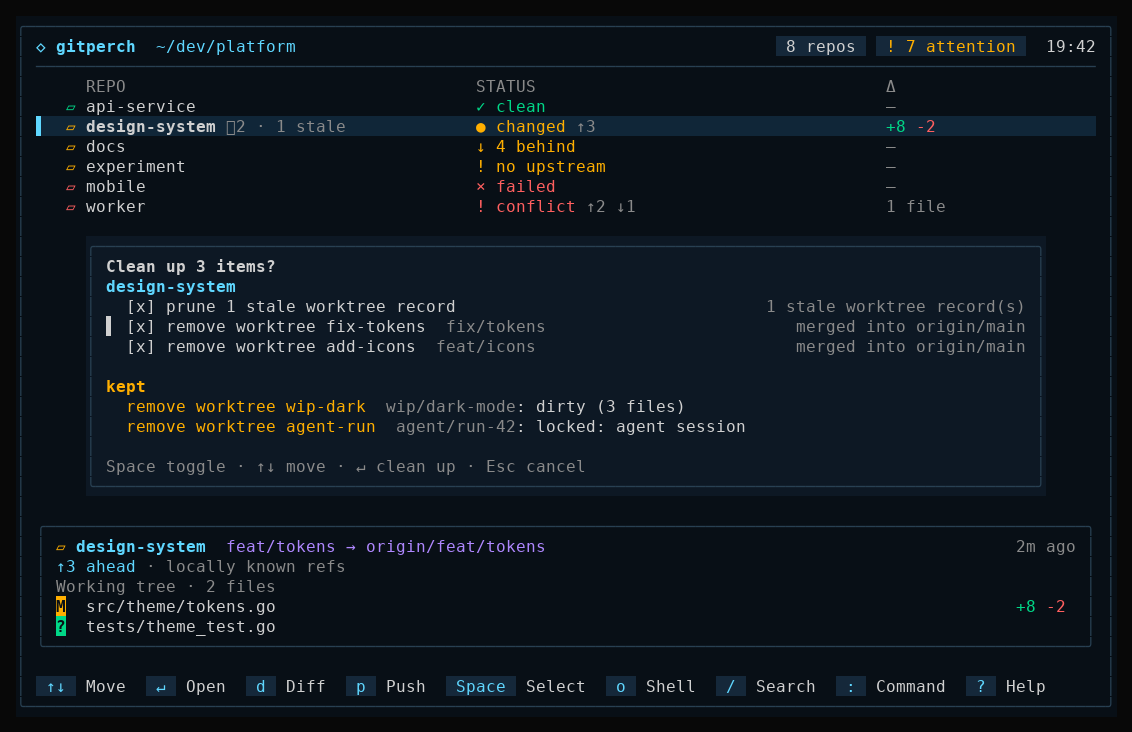
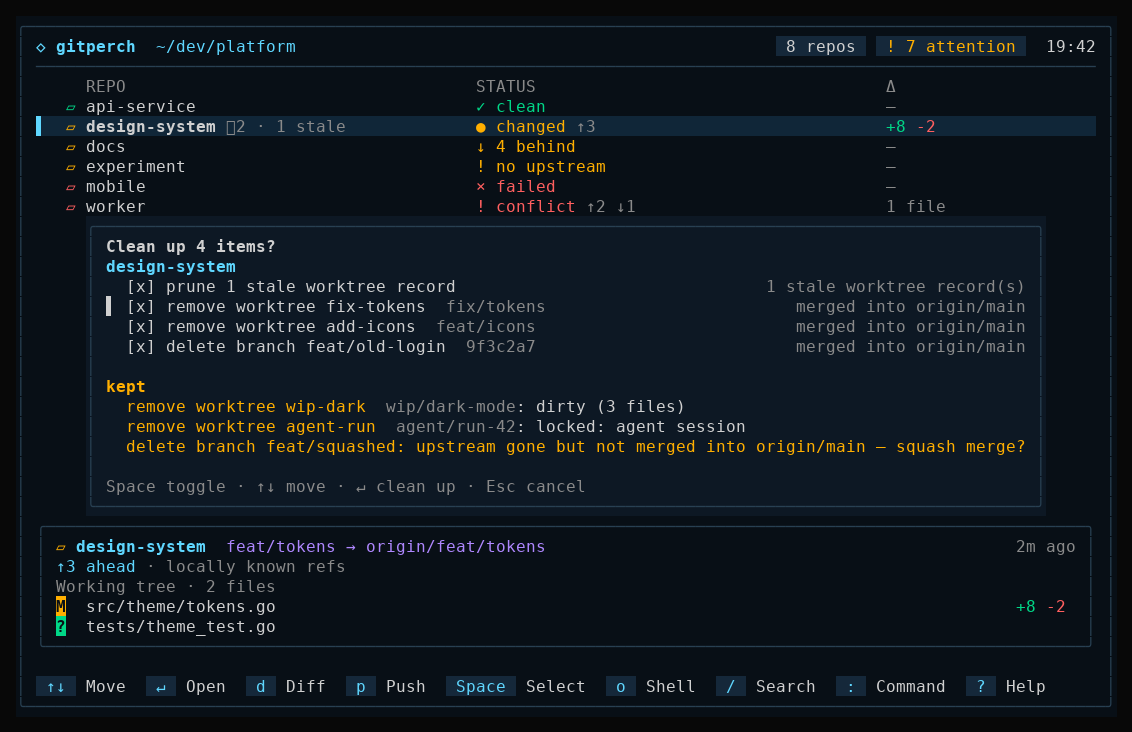
feat(tui): review merged branch deletion with restore commands

diff --git a/internal/tui/cleanup_test.go b/internal/tui/cleanup_test.go
@@ -356,3 +356,46 @@ func TestCleanupLateResultAfterCancelDoesNotOpenReview(t *testing.T) {
 		t.Fatalf("review opened after cancel: %v %q", m.cleanup, m.message)
 	}
 }
+
+func TestCleanupSummaryPointsToRestoreCommands(t *testing.T) {
+	m := New(context.Background(), nil, true)
+	m.EnableActions(app.NewActions(newActionFake(false), 1))
+	m.running, m.runningAction, m.results = true, app.Cleanup, map[string]app.Event{}
+	m.Update(batchDoneMsg{generation: m.actionGeneration, results: []app.Event{{Path: "/r", Item: "delete branch\x00/r\x00/r\x00done", State: app.Succeeded, Message: "deleted done · restore: git branch done 0123456789abcdef0123456789abcdef01234567"}}})
+	if !strings.Contains(m.message, "d restore commands") {
+		t.Fatalf("summary: %q", m.message)
+	}
+	m.details, m.detailTab = true, 0
+	if !strings.Contains(strings.Join(m.detailsContent(), "\n"), "restore: git branch done 0123456789abcdef") {
+		t.Fatal("restore command missing from diagnostics")
+	}
+}
+
+func TestCleanupSummaryOmitsRestoreHintWithoutDeletedBranch(t *testing.T) {
+	m := New(context.Background(), nil, true)
+	m.EnableActions(app.NewActions(newActionFake(false), 1))
+	m.running, m.runningAction, m.results = true, app.Cleanup, map[string]app.Event{}
+	m.Update(batchDoneMsg{generation: m.actionGeneration, results: []app.Event{{Path: "/r", Item: "remove worktree\x00/r\x00/w", State: app.Succeeded, Message: "removed"}}})
+	if strings.Contains(m.message, "restore") {
+		t.Fatalf("summary: %q", m.message)
+	}
+}
+
+func TestCleanupLabelShowsShortBranchCommit(t *testing.T) {
+	m := New(context.Background(), nil, true)
+	label := m.cleanupLabel(app.CleanupItem{Kind: app.DeleteBranch, Branch: "feat/x", OID: "0123456789abcdef0123456789abcdef01234567"})
+	if !strings.Contains(label, "delete branch feat/x") || !strings.Contains(label, "0123456") || strings.Contains(label, "01234567") {
+		t.Fatalf("label: %q", label)
+	}
+}
+
+func TestCleanupKeptBranchOmitsCommitSoReasonFits(t *testing.T) {
+	m := New(context.Background(), nil, true)
+	m.EnableActions(app.NewActions(newActionFake(false), 1))
+	m.width, m.height = 110, 35
+	m.cleanup = &app.CleanupPreview{ID: 1, Items: []app.CleanupItem{{ID: "b", Group: "/r", Kind: app.DeleteBranch, Path: "/r", Branch: "feat/squashed", OID: "4be81d09a7c3f5261e8d0b9c7a6f5e4d3c2b1a09", Reason: "upstream gone but not merged into origin/main — squash merge?"}}}
+	content := m.View().Content
+	if !strings.Contains(content, "delete branch feat/squashed: upstream gone") || !strings.Contains(content, "squash merge?") || strings.Contains(content, "4be81d0") {
+		t.Fatalf("kept branch: %s", content)
+	}
+}

diff --git a/internal/tui/capture_test.go b/internal/tui/capture_test.go
@@ -50,8 +50,9 @@ func writeANSICapture(t *testing.T, name, content string) {
 	}
 }
 
-// captureCleanup is a fixed review: one prune, two eligible removals and two
-// kept worktrees. It never touches Git.
+// captureCleanup is a fixed review: one prune, two eligible removals, one
+// eligible merged branch, two kept worktrees and one kept branch whose
+// upstream is gone. It never touches Git.
 func captureCleanup(main string) *app.CleanupPreview {
 	base := "origin/main"
 	remove := func(id, name, branch string, eligible bool, reason string) app.CleanupItem {
@@ -61,8 +62,10 @@ func captureCleanup(main string) *app.CleanupPreview {
 		{ID: "prune", Group: main, Kind: app.PruneStale, Path: main, Stale: []string{"/home/mark/worktrees/old-spike"}, Eligible: true, Reason: "1 stale worktree record(s)"},
 		remove("fix-tokens", "fix-tokens", "fix/tokens", true, "merged into "+base),
 		remove("add-icons", "add-icons", "feat/icons", true, "merged into "+base),
+		{ID: "branch-old-login", Group: main, Kind: app.DeleteBranch, Path: main, Branch: "feat/old-login", OID: "9f3c2a7d41b86e05c1d2f3a4b5c6d7e8f9a0b1c2", BaseName: base, Eligible: true, Reason: "merged into " + base},
 		remove("wip-dark", "wip-dark", "wip/dark-mode", false, "dirty (3 files)"),
 		remove("agent-run", "agent-run", "agent/run-42", false, "locked: agent session"),
+		{ID: "branch-squashed", Group: main, Kind: app.DeleteBranch, Path: main, Branch: "feat/squashed", OID: "4be81d09a7c3f5261e8d0b9c7a6f5e4d3c2b1a09", BaseName: base, Reason: "upstream gone but not merged into " + base + " — squash merge?"},
 	}}
 }
 

diff --git a/internal/tui/cleanup.go b/internal/tui/cleanup.go
@@ -223,7 +223,11 @@ func (m *Model) runCleanup(chosen []string) tea.Cmd {
 	return tea.Batch(run, m.nextEvent())
 }
 
-func (m *Model) cleanupLabel(item app.CleanupItem) string {
+func (m *Model) cleanupLabel(item app.CleanupItem) string { return m.cleanupItemLabel(item, true) }
+
+// cleanupItemLabel names an item; withOID adds a branch's short commit, which
+// the kept list leaves out so the reason keeps its room.
+func (m *Model) cleanupItemLabel(item app.CleanupItem, withOID bool) string {
 	switch item.Kind {
 	case app.PruneStale:
 		return fmt.Sprintf("prune %s", plural(len(item.Stale), "stale worktree record", "stale worktree records"))
@@ -234,7 +238,11 @@ func (m *Model) cleanupLabel(item app.CleanupItem) string {
 		}
 		return label
 	case app.DeleteBranch:
-		return "delete branch " + gitcli.SafeText(item.Branch)
+		label := "delete branch " + gitcli.SafeText(item.Branch)
+		if withOID {
+			label += "  " + m.style(shortCommit(item.OID), muted, false)
+		}
+		return label
 	}
 	return gitcli.SafeText(m.targetName(item.Path))
 }
@@ -301,7 +309,7 @@ func (m *Model) cleanupView() tea.View {
 		if item.Failed {
 			color = danger
 		}
-		lines = append(lines, m.style("  "+m.cleanupLabel(item)+": "+gitcli.SafeText(item.Reason), color, false))
+		lines = append(lines, m.style("  "+m.cleanupItemLabel(item, false)+": "+gitcli.SafeText(item.Reason), color, false))
 	}
 	footer := "Space toggle · ↑↓ move · " + m.symbols().enter + " clean up · Esc cancel"
 	if len(eligible) == 0 {

diff --git a/internal/tui/actions.go b/internal/tui/actions.go
@@ -111,6 +111,14 @@ func (m *Model) actionMessage(msg tea.Msg) (bool, tea.Cmd) {
 		if skipped+failed > 0 {
 			m.message += " · d details"
 		}
+		if m.runningAction == app.Cleanup {
+			for _, result := range msg.results {
+				if result.State == app.Succeeded && strings.Contains(result.Message, "restore: git branch") {
+					m.message += " · d restore commands"
+					break
+				}
+			}
+		}
 		if msg.err != nil {
 			m.actionFailed = true
 			m.message += " · " + msg.err.Error()

diff --git a/docs/usage.md b/docs/usage.md
@@ -135,7 +135,8 @@ prunable) and is listed but cannot be selected or acted on; a `locked`
 worktree shows its lock reason when Git has one; a bare repository is shown as
 `bare` and is not selectable. These are read-only views; the only changes
 gitperch makes to worktrees are the reviewed ones under
-[Cleaning up worktrees](#cleaning-up-worktrees). It never creates or locks them.
+[Cleaning up worktrees and branches](#cleaning-up-worktrees-and-branches). It
+never creates or locks them.
 
 The inventory needs Git 2.36 or newer. With older Git, or when the Git version
 cannot be read, the feature is silently off: no grouping, no stale worktrees, no
@@ -154,10 +155,10 @@ inventory is available (schema version still 1; the field is additive):
 | `main_path` | Path of the main worktree that owns this group |
 | `outside_roots` | Listed by Git but outside the scanned roots (omitted when false) |
 
-## Cleaning up worktrees
+## Cleaning up worktrees and branches
 
-Press `c` (or choose Clean up from the palette) to review leftover worktrees,
-typically after agents finish. It targets the selected repositories, or the
+Press `c` (or choose Clean up from the palette) to review leftover worktrees
+and merged local branches, typically after agents finish. It targets the selected repositories, or the
 highlighted one; a selected or highlighted linked worktree targets its whole
 group. Clean up is hidden below Git 2.36, where `c` explains the requirement.
 
@@ -174,6 +175,7 @@ a reason. Results appear in the status line and in details under Batch results.
 | --- | --- | --- |
 | Stale worktree records (one item per repository) | At least one record is stale (directory missing) and not locked | `git worktree prune` |
 | Linked worktree | It exists, is not the main worktree, is not locked, has no changes, untracked files or conflicts, has no operation in progress, contains no ignored files, and its HEAD is reachable from the default branch | `git worktree remove <path>` |
+| Local branch | Its tip is reachable from the default ref, it is not the default branch, and no remaining worktree has it checked out | `git update-ref -d refs/heads/<name> <commit>`, then `git config --local --remove-section branch.<name>` |
 
 Reasons a worktree is kept include `dirty (3 files)`, `locked: agent session`,
 `4 ignored file(s) (.env, node_modules/, …)`, and `not merged into origin/main`.
@@ -191,6 +193,32 @@ removal (stale records can still be pruned); run
 `git remote set-head <remote> -a` yourself, because gitperch never sets it. A
 failed fetch likewise makes no worktree eligible for removal, and the error is
 shown among the kept items; stale records can still be pruned.
+
+### Branches
+
+Local branches are reviewed in the same list, one item per branch with its
+short commit. A branch is eligible when its tip is reachable from the default
+ref (`refs/remotes/<remote>/HEAD` after the fetch, or local `main`/`master`
+without a remote), it is not the default branch itself, and no remaining
+worktree has it checked out.
+
+- A worktree holds its branch unless its record is stale (directory missing).
+  A locked worktree holds its branch even when its directory is missing.
+- A branch whose worktree removal you unticked, or whose removal fails, is
+  skipped at run time ("checked out in ...").
+- While any worktree in the repository has an operation in progress (rebase,
+  merge, cherry-pick, revert, bisect) or cannot be inspected, merged branches
+  are still listed but none is eligible.
+- An unmerged branch whose upstream is gone is kept with
+  "upstream gone but not merged into ... — squash merge?", since a squash or
+  rebase merge cannot be detected. Other unmerged branches are not listed.
+
+Deletion is a compare-and-delete at the commit you reviewed: if the branch has
+moved since, it is skipped and nothing is lost. Afterwards the branch's
+`branch.<name>` config section (its upstream settings) is removed. Each deleted
+branch leaves a restore command in Diagnostics (`d`) under Batch results, for
+example `git branch feat/old-login 9f3c2a7d41b86e05c1d2f3a4b5c6d7e8f9a0b1c2`;
+the status line points to it with "d restore commands".
 
 ## Fetch
 
@@ -276,7 +304,7 @@ normal user permissions; gitperch is not a sandbox for untrusted repositories.
 
 The dashboard does not stage, commit, stash, reset, clean, rebase, resolve
 conflicts, create branches, configure upstreams, or force push. It does not
-force-remove worktrees or delete unmerged work. It does not
-support triangular push workflows, multiple push URLs, arbitrary push
+force-remove worktrees or delete unmerged work; the only branches it deletes
+are fully merged ones, after review. It does not support triangular push workflows, multiple push URLs, arbitrary push
 refspecs, or headless bulk mutation. See [plan.md](plan.md) for the full v0.1
 scope and action policy.

diff --git a/README.md b/README.md
@@ -37,8 +37,8 @@ directory.
 It is deliberately conservative. Agents generate a lot of change; the
 dashboard you use to review that change should never add surprises.
 gitperch is read-only by default, never force-pushes or force-removes, never
-commits, stashes or resets, only deletes worktrees that are clean and merged, and
-re-validates every action right before it runs.
+commits, stashes or resets, only deletes worktrees and branches that are clean
+and merged, and re-validates every action right before it runs.
 
 ## Features
 
@@ -50,7 +50,8 @@ re-validates every action right before it runs.
 - **Worktree inventory**: every linked worktree, including nested, outside-root
   and stale ones, grouped under its repository.
 - **Reviewed cleanup**: prune stale worktree records and remove clean
-  worktrees already merged into the default branch.
+  worktrees already merged into the default branch, and local branches fully
+  merged into it.
 - **Repository details**: overview, changed files, recent commits and worktree
   state, plus a diff view.
 - **Safe synchronization**: fetch, push and fast-forward-only pull across a

diff --git a/docs/ui.md b/docs/ui.md
@@ -95,7 +95,7 @@ expanded group.
 | a | Select/deselect all visible repositories (existing binding) |
 | p / l | Push / fast-forward pull selection or highlighted repository; one confirmation popup |
 | f | Fetch explicitly selected repositories (no confirmation) |
-| c | Clean up: review stale worktree records and merged clean worktrees (Git 2.36+); Space toggles, Enter runs, Esc cancels |
+| c | Clean up: review stale worktree records, merged clean worktrees and merged branches (Git 2.36+); Space toggles, Enter runs, Esc cancels |
 | o | Open an interactive shell in the selected worktree |
 | g | Open LazyGit; palette lists it only when installed |
 | r | Refresh workspace and invalidate cached details |

diff --git a/CHANGELOG.md b/CHANGELOG.md
@@ -17,6 +17,10 @@ and this project adheres to [Semantic Versioning](https://semver.org/spec/v2.0.0
   worktrees already merged into the remote default branch. Dirty, locked,
   unmerged worktrees and worktrees with ignored files are kept with the reason
   shown; nothing is forced.
+- Clean up also deletes local branches fully merged into the remote default
+  branch, only at the commit you reviewed; Diagnostics (`d`) lists a
+  `git branch <name> <commit>` command to restore each one. Worktree and branch
+  cleanup need Git 2.36 or newer.
 - `gitperch status --json` reports a `worktree` object per repository (schema
   version 1, additive).
 
